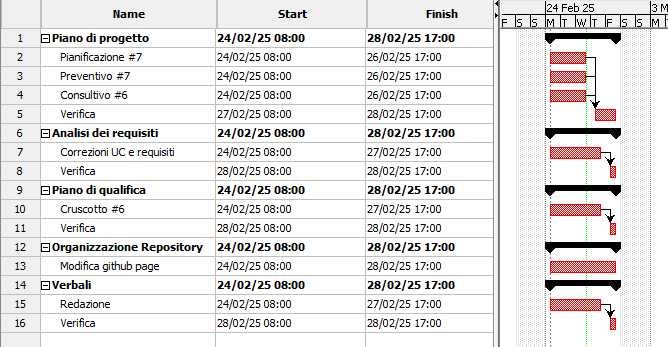
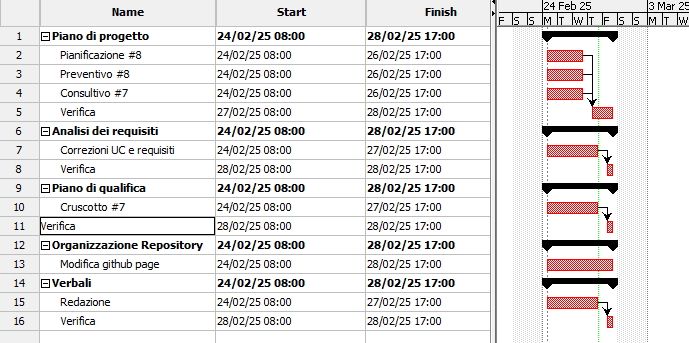
change: correzioni

diff --git a/Docs/Generali/piano_di_progetto/03_pianificazione.tex b/Docs/Generali/piano_di_progetto/03_pianificazione.tex
@@ -143,7 +143,7 @@ del 22-01-2025. Infine, verrà aggiornato il \textit{Glossario} con i nuovi term
 \newpage
 
 \subsubsection{Sprint 8 (dal 24/02/2025 al 27/02/2025)}
-Durante l'ottavo sprint, ci dedicheremo al perfezionamento dell'organizzazione della repository e all'ottimizzazione della GitHub Page.
+Durante l'ottavo sprint, ci dedicheremo al perfezionamento dell'organizzazione del repository e all'ottimizzazione della GitHub Page.
 Affronteremo anche le eventuali modifiche all'\textit{Analisi dei requisiti} suggerite dal professor Riccardo Cardin.
 Inoltre, è in programma un incontro con il proponente per un approfondimento sulle prestazioni del software e sulle soluzioni tecniche adottate.
 Data la ridotta mole di lavoro restante per la presentazione dell'RTB, questo sprint avrà una durata di una sola settimana.

diff --git a/Docs/Generali/piano_di_progetto/04_preventivo.tex b/Docs/Generali/piano_di_progetto/04_preventivo.tex
@@ -177,6 +177,6 @@ Di seguito una tabella dettagliata con la distribuzione dei ruoli e delle ore pr
 
 \input{config/member_plan_input_8}
 
-I costi stimati per il settimo sprint sono riportati nella tabella seguente:
+I costi stimati per l'ottavo sprint sono riportati nella tabella seguente:
 
 \input{config/cost_plan_input_8}
